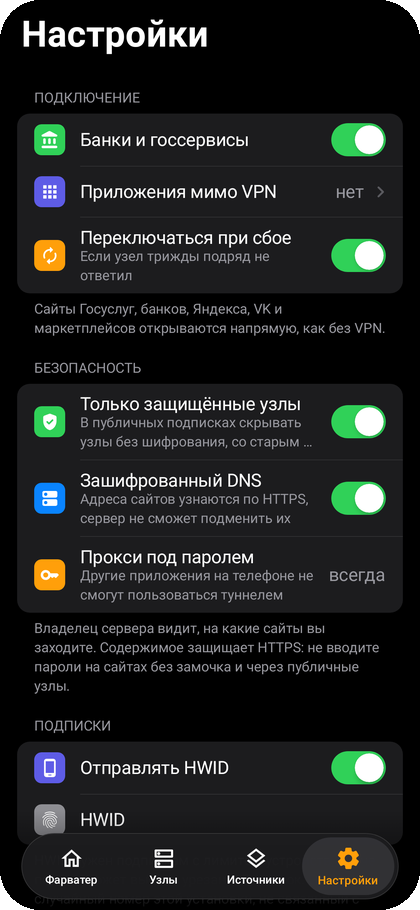
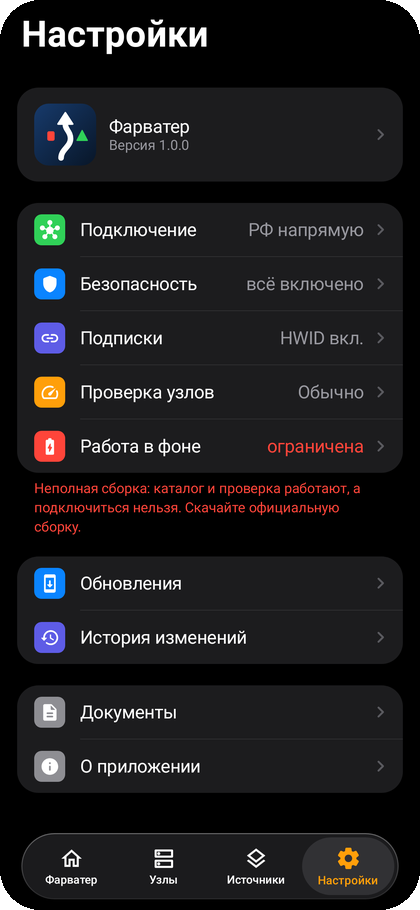
README: новые настройки и история изменений, свежие скриншоты

diff --git a/README.md b/README.md
@@ -210,7 +210,7 @@ sha256sum --check --ignore-missing SHA256SUMS.txt
 
 Пока включён VPN и горит экран, Фарватер проверяет новые версии раз в минуту и сразу при включении экрана. Когда VPN выключен, проверка идёт в фоне каждые 15 минут и при каждом открытии. Найдя новую, он присылает уведомление, а в открытом приложении сразу показывает окно «Что нового». В окне обновления видно, что изменилось. Срочные исправления помечаются отдельно. После нажатия «Обновить» приложение скачивает APK, сверяет его SHA-256 с опубликованным и передаёт системному установщику. Настройки и подписки сохраняются.
 
-Проверить вручную: **Настройки → О приложении → Обновления**.
+Проверить вручную: **Настройки → Обновления → Проверить обновления**. Там же **История изменений**: все версии с 1.0.0, что в каждой добавлено, исправлено и удалено. Она хранится внутри приложения и открывается без интернета.
 
 Следить за версиями можно и через [Obtainium](https://github.com/ImranR98/Obtainium): добавьте в него ссылку на этот репозиторий.
 
@@ -274,6 +274,8 @@ farvater://import?url=https%3A%2F%2Fexample.com%2Fsub%2Ftoken
 
 ### Настройки
 
+Настройки устроены как в iOS: на главной странице разделы, каждый открывается отдельной страницей.
+
 | Раздел | Параметр | По умолчанию | Что делает |
 | :-- | :-- | :-- | :-- |
 | Подключение | Банки и госсервисы | вкл. | Сайты российских сервисов и банков открываются напрямую, мимо VPN. |
@@ -285,8 +287,8 @@ farvater://import?url=https%3A%2F%2Fexample.com%2Fsub%2Ftoken
 | Подписки | Отправлять HWID | вкл. | Передаёт идентификатор устройства вашим подпискам. Публичные его не получают. |
 | Проверка узлов | Скрывать неработающие | выкл. | Убирает из списка узлы без ответа. |
 | Проверка узлов | Скорость проверки | обычно | Сколько узлов проверяется одновременно: 8, 16 или 32. |
-| Защита | Работа в фоне | — | Открывает страницу Фарватера в настройках Android, где снимаются ограничения батареи. |
-| О приложении | Проверять автоматически | вкл. | Проверка обновлений: раз в минуту при включённом VPN, иначе раз в 15 минут. |
+| Работа в фоне | Ограничения батареи | — | Показывает, ограничивает ли Android работу Фарватера, и открывает его страницу в настройках системы. |
+| Обновления | Проверять автоматически | вкл. | Проверка обновлений: раз в минуту при включённом VPN, иначе раз в 15 минут. |
 
 ## Поддерживаемые протоколы
 
@@ -456,7 +458,7 @@ Google Play удаляет такие приложения по требован
 <summary><b>VPN отключается, когда приложение закрыто</b></summary>
 <br>
 
-Откройте **Настройки → Защита → Работа в фоне**, в открывшихся настройках выберите «Батарея» и «Без ограничений». На телефонах Xiaomi, Huawei, Honor, OPPO и vivo этого бывает мало: в настройках телефона найдите Фарватер и включите автозапуск, а в разделе батареи выберите «Без ограничений».
+Откройте **Настройки → Работа в фоне → Открыть настройки Фарватера** и выберите «Батарея» → «Без ограничений». На телефонах Xiaomi, Huawei, Honor, OPPO и vivo этого бывает мало: в настройках телефона найдите Фарватер и включите автозапуск, а в разделе батареи выберите «Без ограничений».
 
 </details>
 
